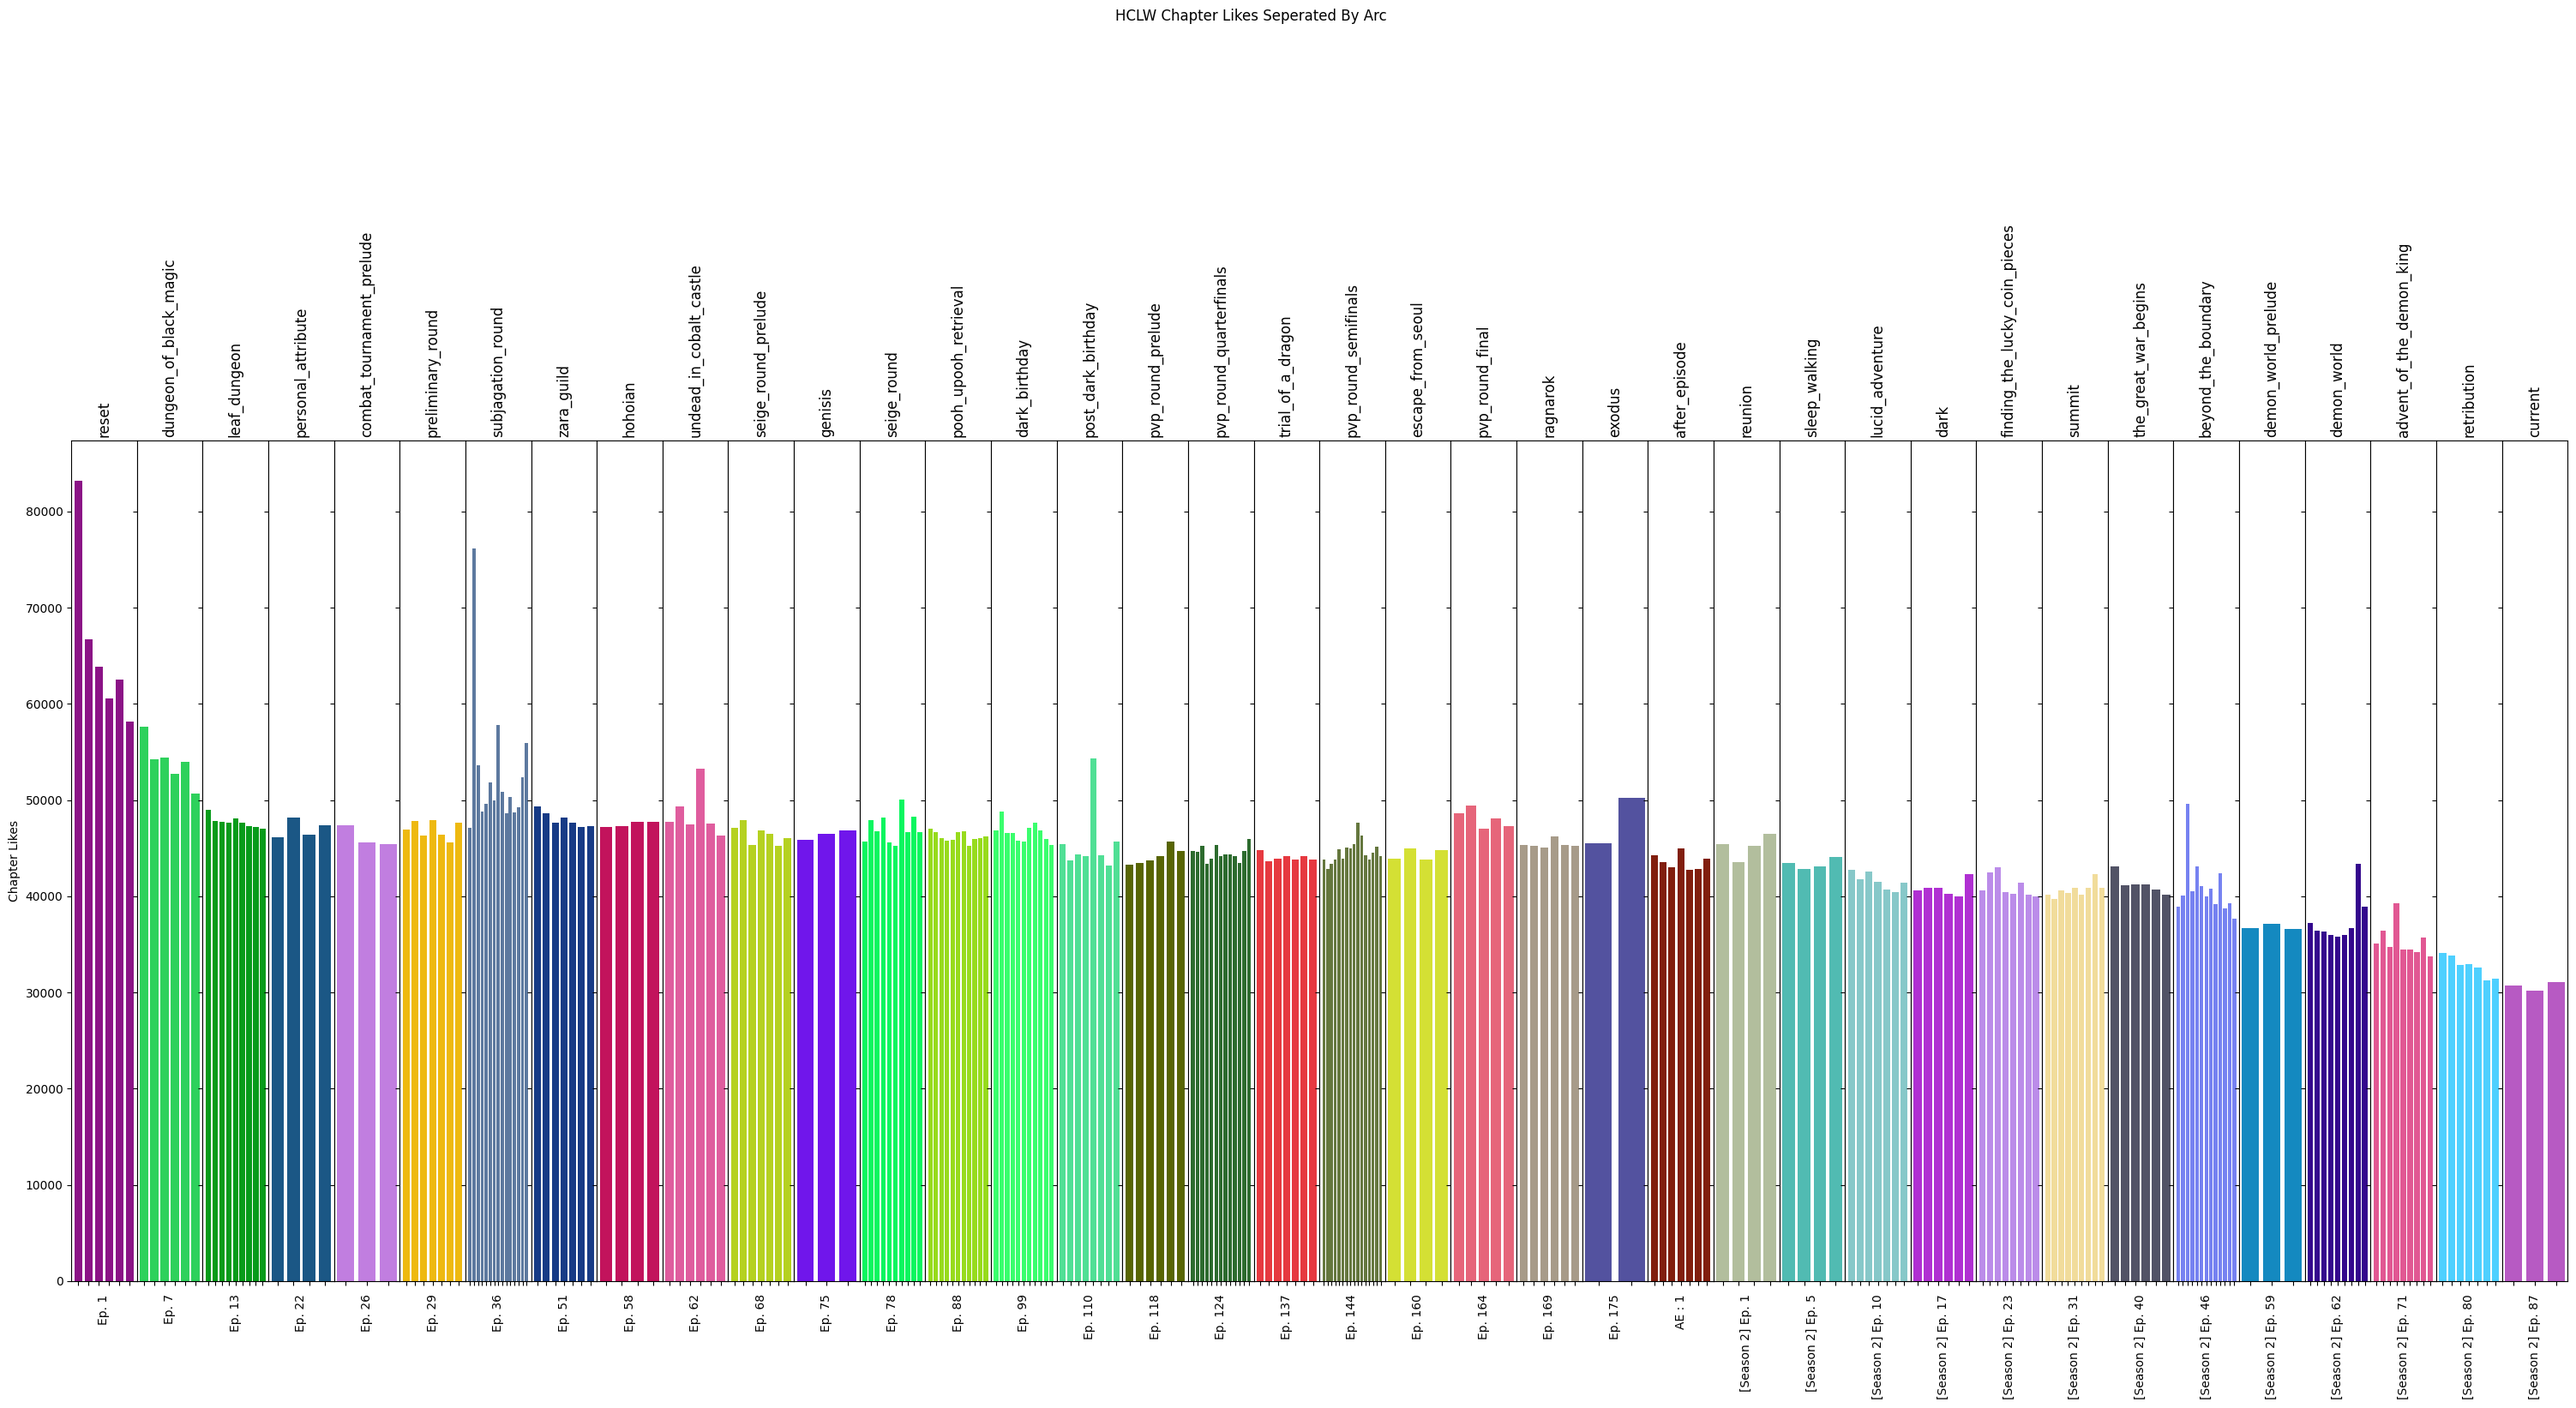
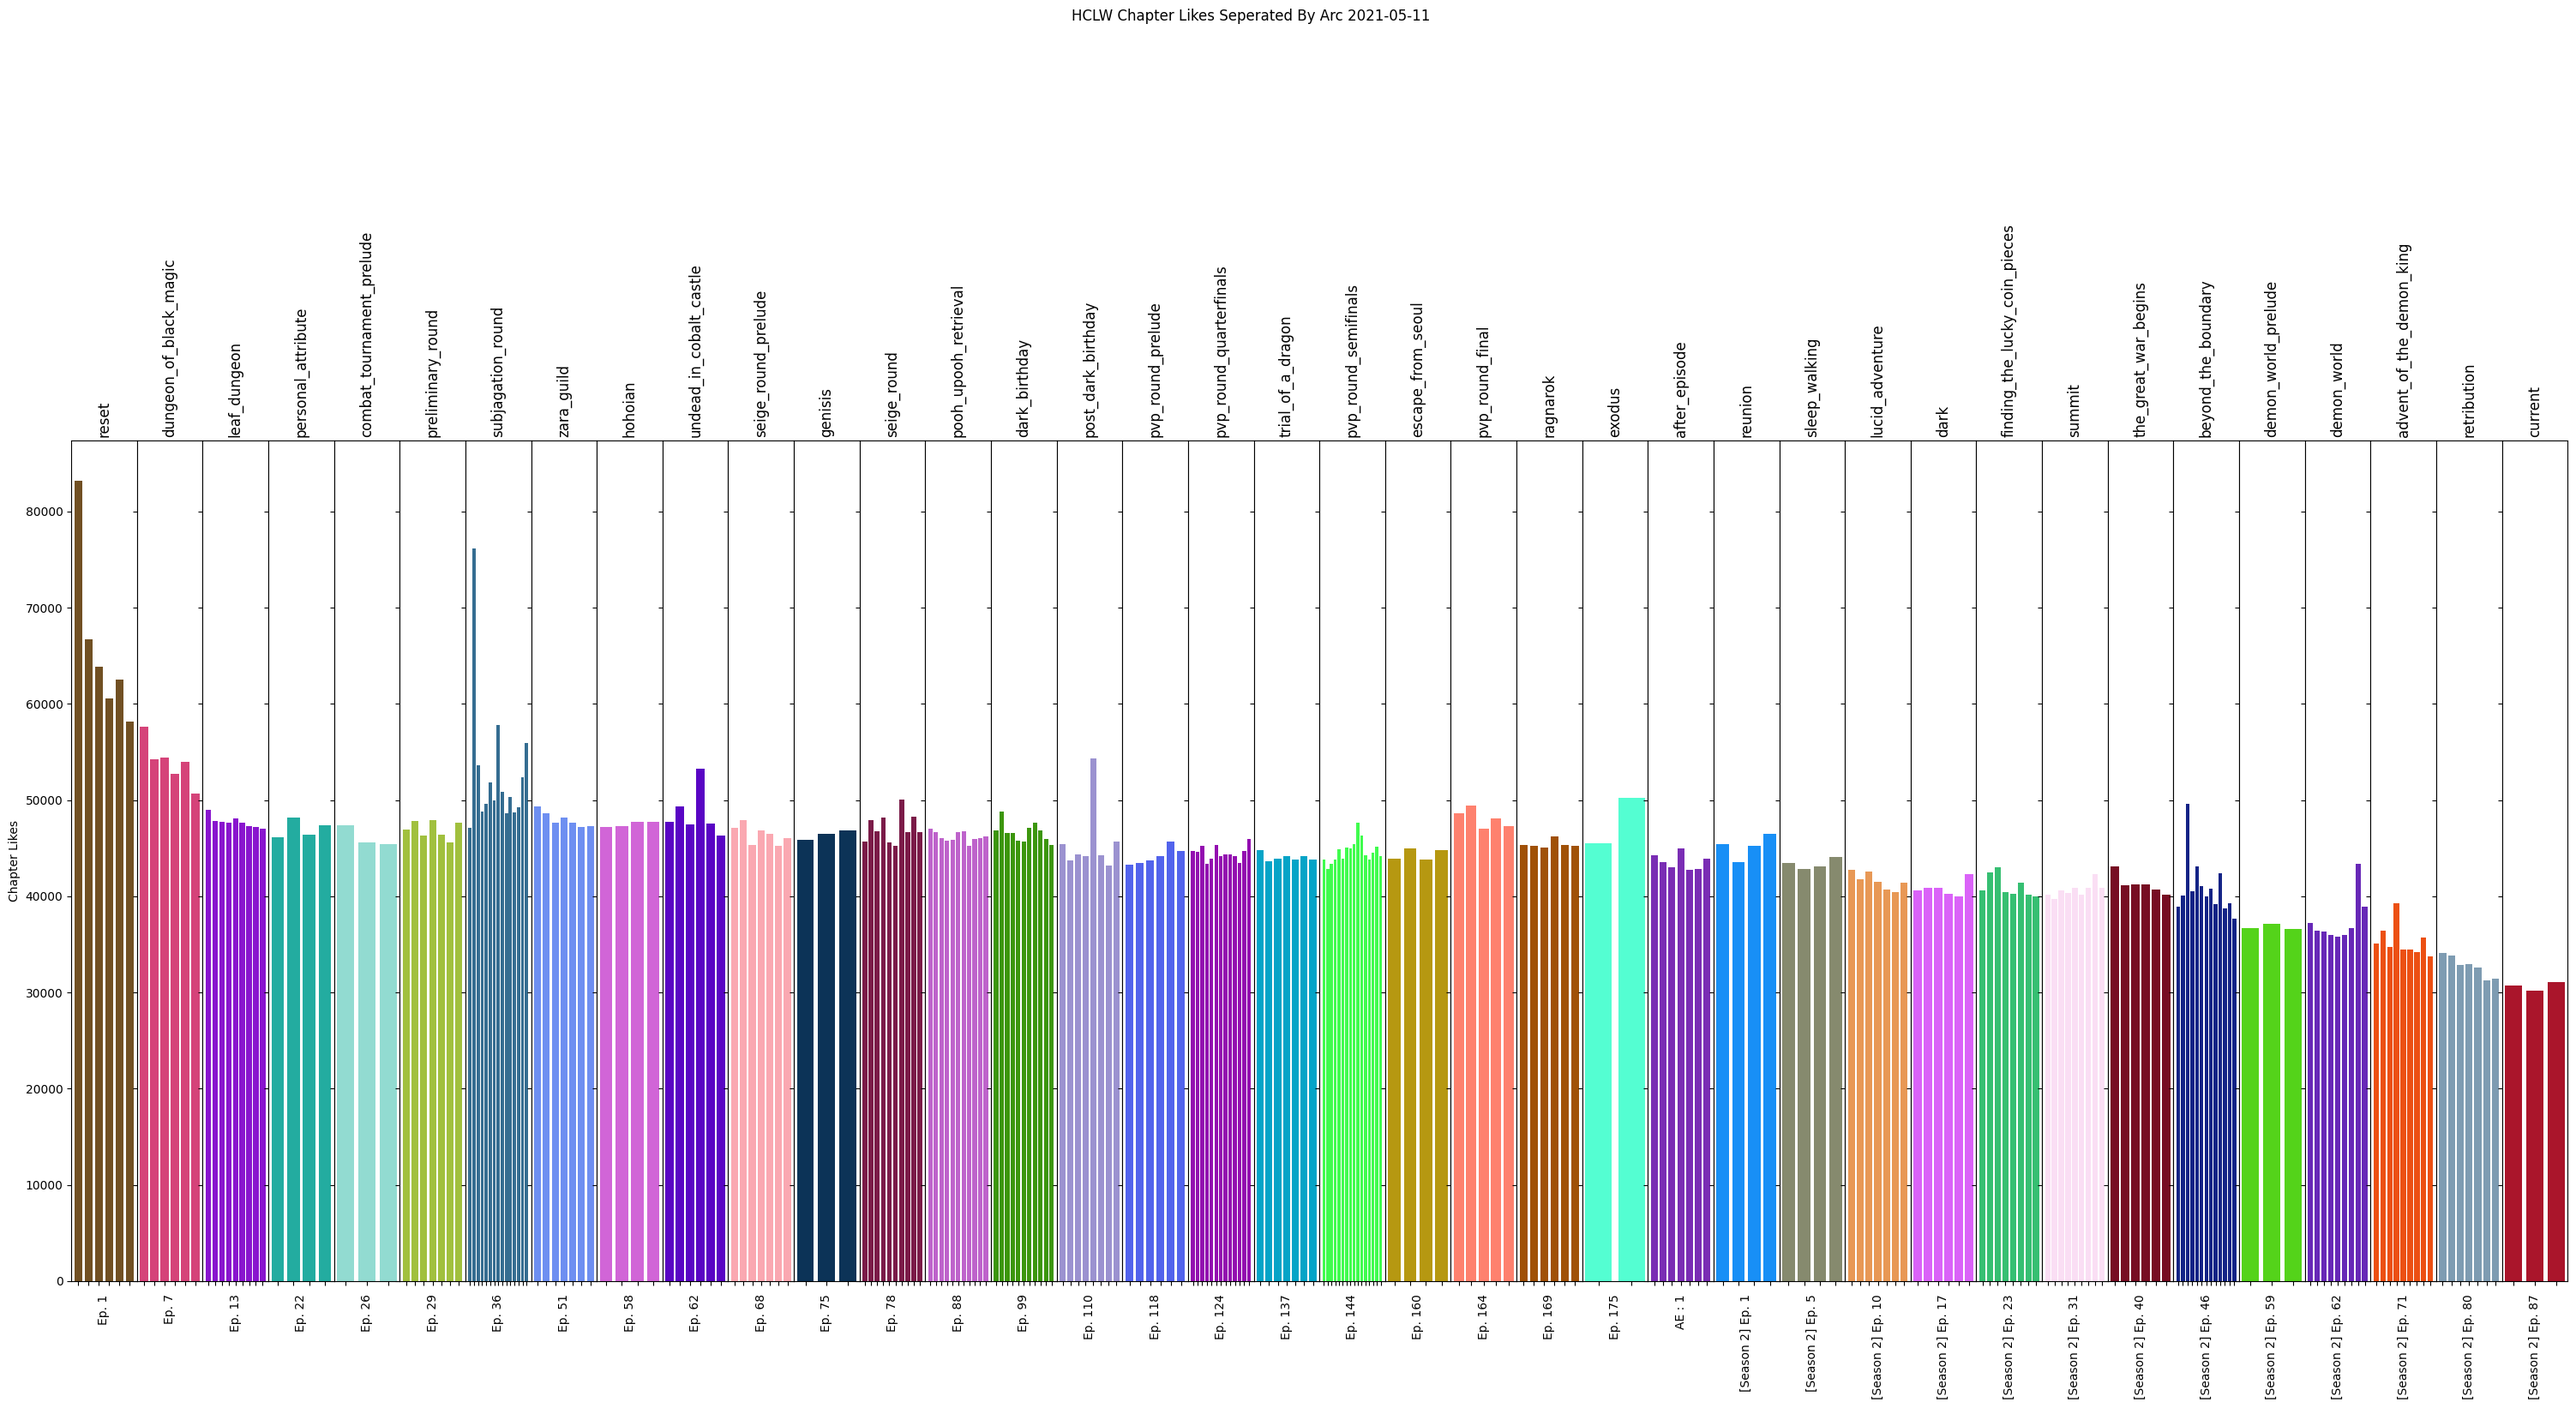
create generate report image file

Changed region(s): [[0.0309, 0.4656, 1.0, 0.9312], [0.4333, 0.0, 0.5571, 0.031]]

diff --git a/naver_hclw_data_sifter.py b/naver_hclw_data_sifter.py
@@ -3,12 +3,13 @@ import matplotlib.pyplot as plt
 import numpy as np
 import random
 import codecs
+from datetime import date
+from PIL import Image
 
 #this will do stuff like graph the data, show the average length, etc
 def get_data():
     naver_hclw_chapters_txt = open("naver_hclw_chapters.txt","r", encoding="utf-8-sig")
     raw_data_arr = naver_hclw_chapters_txt.readlines()
-    print(raw_data_arr)
     return raw_data_arr
 
 def get_stats(data_arr):
@@ -184,16 +185,32 @@ def plot_x_in_arcs(arcs_arr, x, offset, label):
             axs[arcs_arr.index(arc)-offset].set_xlabel(first_arc_chapter['name'], rotation=90)
         i+=1
     axs[0].set_ylabel("Chapter " + label)
-    plt.suptitle('Naver HCLW Chapter ' + label + ' Seperated By Arc')
+    plt.suptitle('Naver HCLW Chapter ' + label + ' Seperated By Arc ' + str(date.today()))
     manager = plt.get_current_fig_manager()
     manager.resize(*manager.window.maxsize())
     plt.savefig('./images/Naver_HCLW_Chapter_' + label + '_Seperated_By_Arc.png', bbox_inches='tight')
+
+def generate_report_image(arcs_data):
+    plot_x_in_arcs(arcs_data, 'length', 0, 'Length(px)')
+    plot_x_in_arcs(arcs_data, 'comments', 0, 'Comments')
+    plot_x_in_arcs(arcs_data, 'participation', 0, 'Participation')
+    plot_x_in_arcs(arcs_data, 'rating', 0, 'Rating')
+
+    length_image = Image.open("./images/Naver_HCLW_Chapter_Length(px)_Seperated_By_Arc.png")
+    participation_image = Image.open("./images/Naver_HCLW_Chapter_Participation_Seperated_By_Arc.png")
+    comments_image = Image.open("./images/Naver_HCLW_Chapter_Comments_Seperated_By_Arc.png")
+    rating_image = Image.open("./images/Naver_HCLW_Chapter_Rating_Seperated_By_Arc.png")
+    height = length_image.size[1] + participation_image.size[1] + comments_image.size[1] + rating_image.size[1]
+    width = length_image.size[0] + participation_image.size[0]
+    report_image = Image.new(mode="RGB", size=(width, height), color="WHITE")
+    report_image.paste(length_image, (length_image.size[0],0))
+    report_image.paste(participation_image, (participation_image.size[0],length_image.size[1]))
+    report_image.paste(comments_image, (comments_image.size[0],length_image.size[1] + participation_image.size[1]))
+    report_image.paste(rating_image, (int(participation_image.size[0]/2),length_image.size[1] + participation_image.size[1] + comments_image.size[1]))
+    return report_image
 
 if __name__ == "__main__":
     data = get_data()
     arcs_data = get_arcs_data(data)
     get_stats(data)
-    plot_x_in_arcs(arcs_data, 'length', 0, 'Length(px)')
-    plot_x_in_arcs(arcs_data, 'comments', 0, 'Comments')
-    plot_x_in_arcs(arcs_data, 'participation', 0, 'Participation')
-    plot_x_in_arcs(arcs_data, 'rating', 0, 'Rating')
+    generate_report_image(arcs_data)

diff --git a/hclw_data_sifter.py b/hclw_data_sifter.py
@@ -2,6 +2,8 @@ import json
 import matplotlib.pyplot as plt
 import numpy as np
 import random
+from datetime import date
+from PIL import Image
 
 #this will do stuff like graph the data, show the average length, etc
 def get_data():
@@ -178,16 +180,32 @@ def plot_x_in_arcs(arcs_arr, x, offset, label):
             axs[arcs_arr.index(arc)-offset].set_xlabel(first_arc_chapter['name'], rotation=90)
         i+=1
     axs[0].set_ylabel("Chapter " + label)
-    plt.suptitle('HCLW Chapter ' + label + ' Seperated By Arc')
+    plt.suptitle('HCLW Chapter ' + label + ' Seperated By Arc ' + str(date.today()))
     manager = plt.get_current_fig_manager()
     manager.resize(*manager.window.maxsize())
     plt.savefig('./images/HCLW_Chapter_' + label + '_Seperated_By_Arc.png', bbox_inches='tight')
+
+def generate_report_image(arcs_data):
+    plot_x_in_arcs(arcs_data, 'length', 0, 'Length(px)')
+    plot_x_in_arcs(arcs_data, 'comments', 0, 'Comments')
+    plot_x_in_arcs(arcs_data, 'likes', 0, 'Likes')
+
+    length_image = Image.open("./images/HCLW_Chapter_Length(px)_Seperated_By_Arc.png")
+    likes_image = Image.open("./images/HCLW_Chapter_Likes_Seperated_By_Arc.png")
+    comments_image = Image.open("./images/HCLW_Chapter_Comments_Seperated_By_Arc.png")
+    height = length_image.size[1] + likes_image.size[1] + comments_image.size[1]
+    width = length_image.size[0]
+    report_image = Image.new(mode="RGB", size=(width, height), color="WHITE")
+    report_image.paste(length_image, (0,0))
+    report_image.paste(likes_image, (0,length_image.size[1]))
+    report_image.paste(comments_image, (0,length_image.size[1] + likes_image.size[1]))
+    return report_image
+
+
+
 
 if __name__ == "__main__":
     data = get_data()
     arcs_data = get_arcs_data(data)
     get_stats(data)
-    plot_x_in_arcs(arcs_data, 'length', 0, 'Length(px)')
-    plot_x_in_arcs(arcs_data, 'comments', 0, 'Comments')
-    plot_x_in_arcs(arcs_data, 'likes', 0, 'Likes')
     #plot_data(data)

diff --git a/naver_hclw_scraper.py b/naver_hclw_scraper.py
@@ -1,5 +1,6 @@
 import time
 
+import json
 import codecs
 from requests import get
 from bs4 import BeautifulSoup
@@ -38,10 +39,28 @@ def get_chapters(start, end):
     return get_chapter_length(arr_of_chapters)
     
 def scrape_latest():
-    chapter_text = open("naver_hclw_chapters.txt","r", encoding="utf-16")
-    print(chapter_text.readlines())
-    latest_chapters = get_chapters(1, 0)
-    print(latest_chapters)
+    chapter_text = open("naver_hclw_chapters.txt","a", encoding="utf-16")
+    readable_text = open("naver_hclw_chapters.txt","r", encoding="utf-8-sig")
+    latest_chapters_from_text = readable_text.readlines()[-15:]
+    if latest_chapters_from_text[-1] != '\n':
+        chapter_text.write("\n")
+    latest_chapters_from_scrape = get_chapters(1, 0)
+    for scrape_chapter in latest_chapters_from_scrape:
+        #checks if chapter is in text file
+        scrape_chapter = json.loads(scrape_chapter.replace("'", ''))
+        add_chapter = True
+        for chapter in latest_chapters_from_text:
+            if chapter == '\n':
+                continue
+            chapter = json.loads(chapter.replace('\n', ''))
+            if scrape_chapter.get('name') == chapter.get('name'):
+                add_chapter = False
+                break
+            else:
+                add_chapter = True
+        if add_chapter:
+            print("Adding Chapter " + json.dumps(scrape_chapter))
+            chapter_text.write(json.dumps(scrape_chapter) + "\n")
 
 def get_chapter_length(arr_of_chapters, write=False):
     print(write)

diff --git a/generate_report.py b/generate_report.py
@@ -1,0 +1,20 @@
+
+import hclw_data_sifter
+import naver_hclw_data_sifter
+from PIL import Image
+def generate_image():
+    data = hclw_data_sifter.get_data()
+    arcs_data = hclw_data_sifter.get_arcs_data(data)
+    hclw_data_sifter.get_stats(data)
+    image = hclw_data_sifter.generate_report_image(arcs_data)
+    naver_data = naver_hclw_data_sifter.get_data()
+    naver_arcs_data = naver_hclw_data_sifter.get_arcs_data(naver_data)
+    naver_hclw_data_sifter.get_stats(naver_data)
+    naver_image = naver_hclw_data_sifter.generate_report_image(naver_arcs_data)
+    report_image = Image.new(mode = "RGB", size = naver_image.size, color="WHITE")
+    report_image.paste(naver_image, (0, 0))
+    report_image.paste(image, (0,0))
+    report_image.save("./images/hclw_data.png")
+
+if __name__ == "__main__":
+    generate_image()
